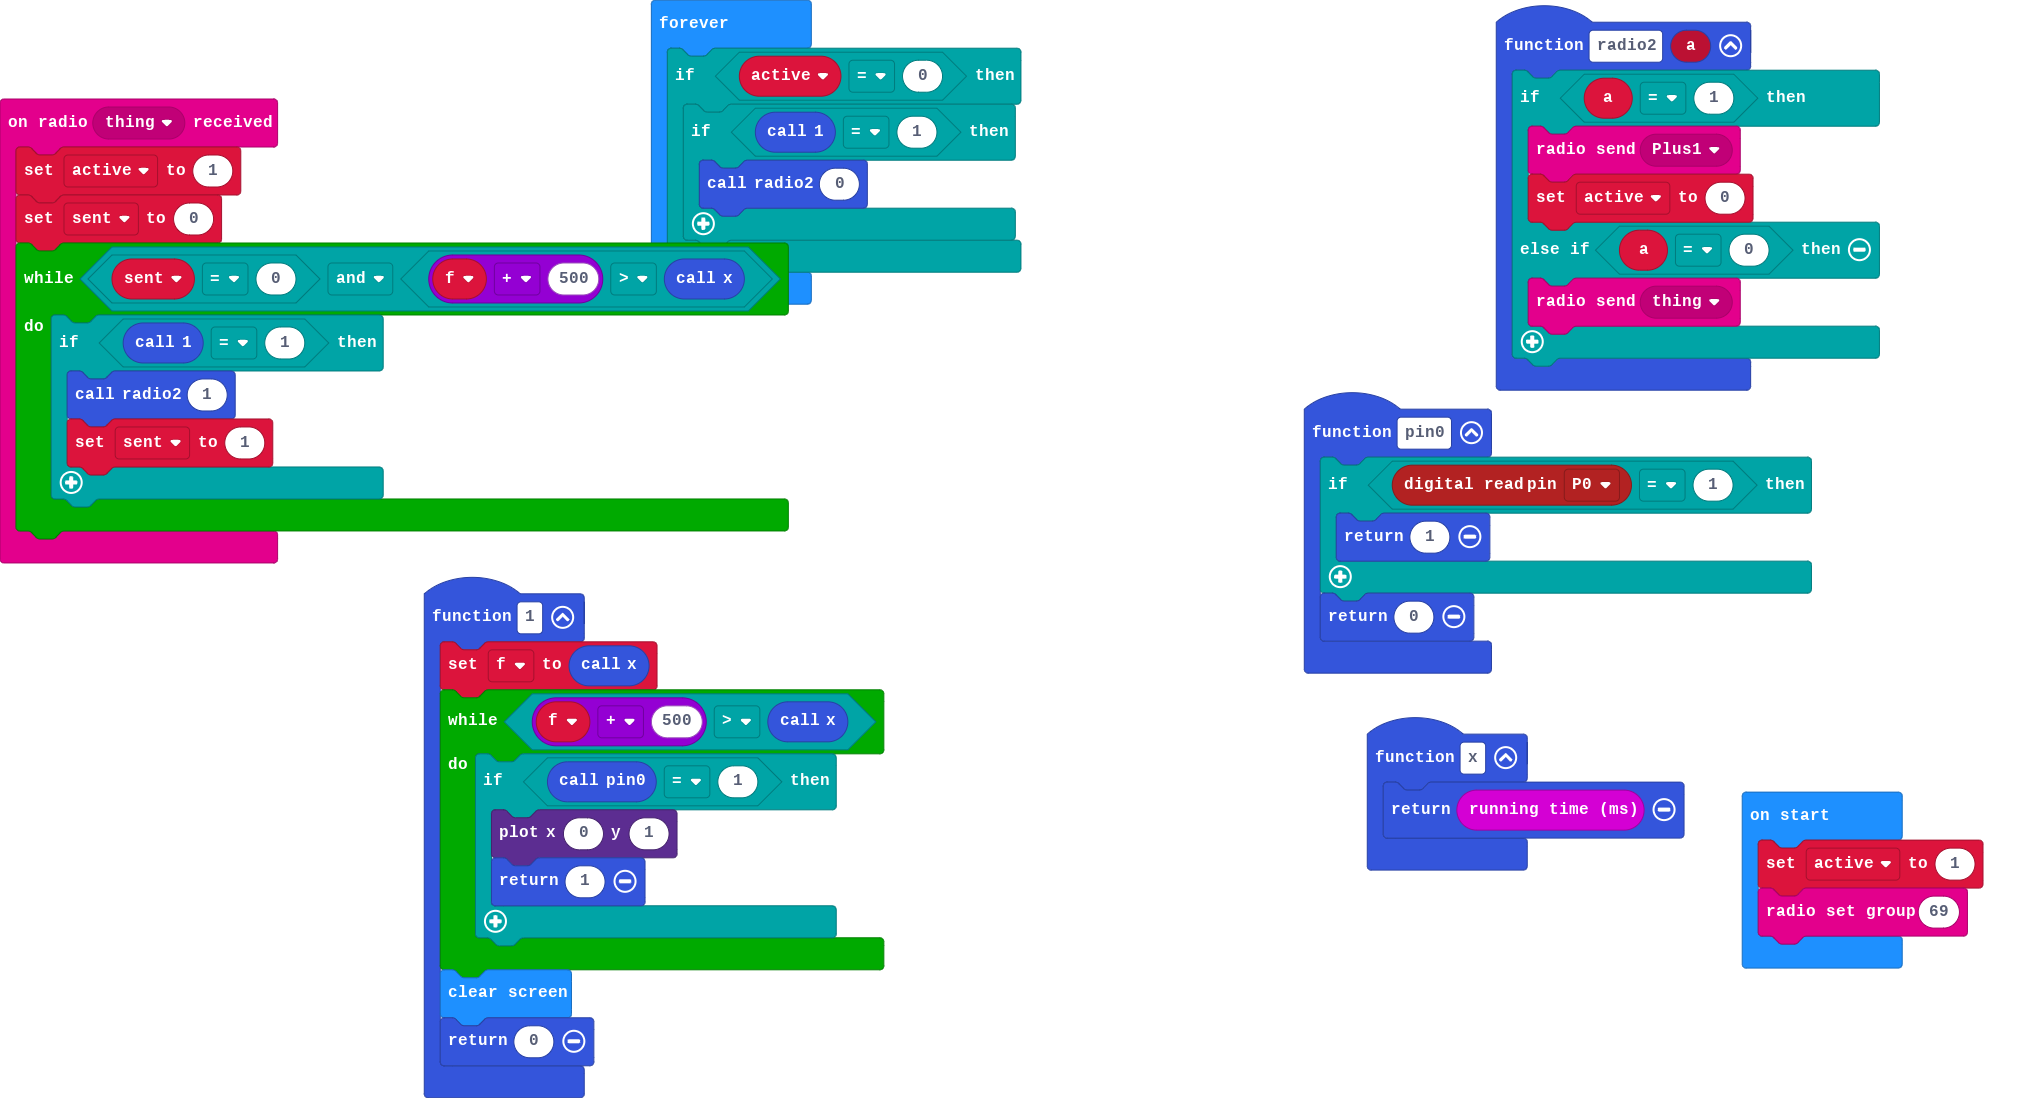
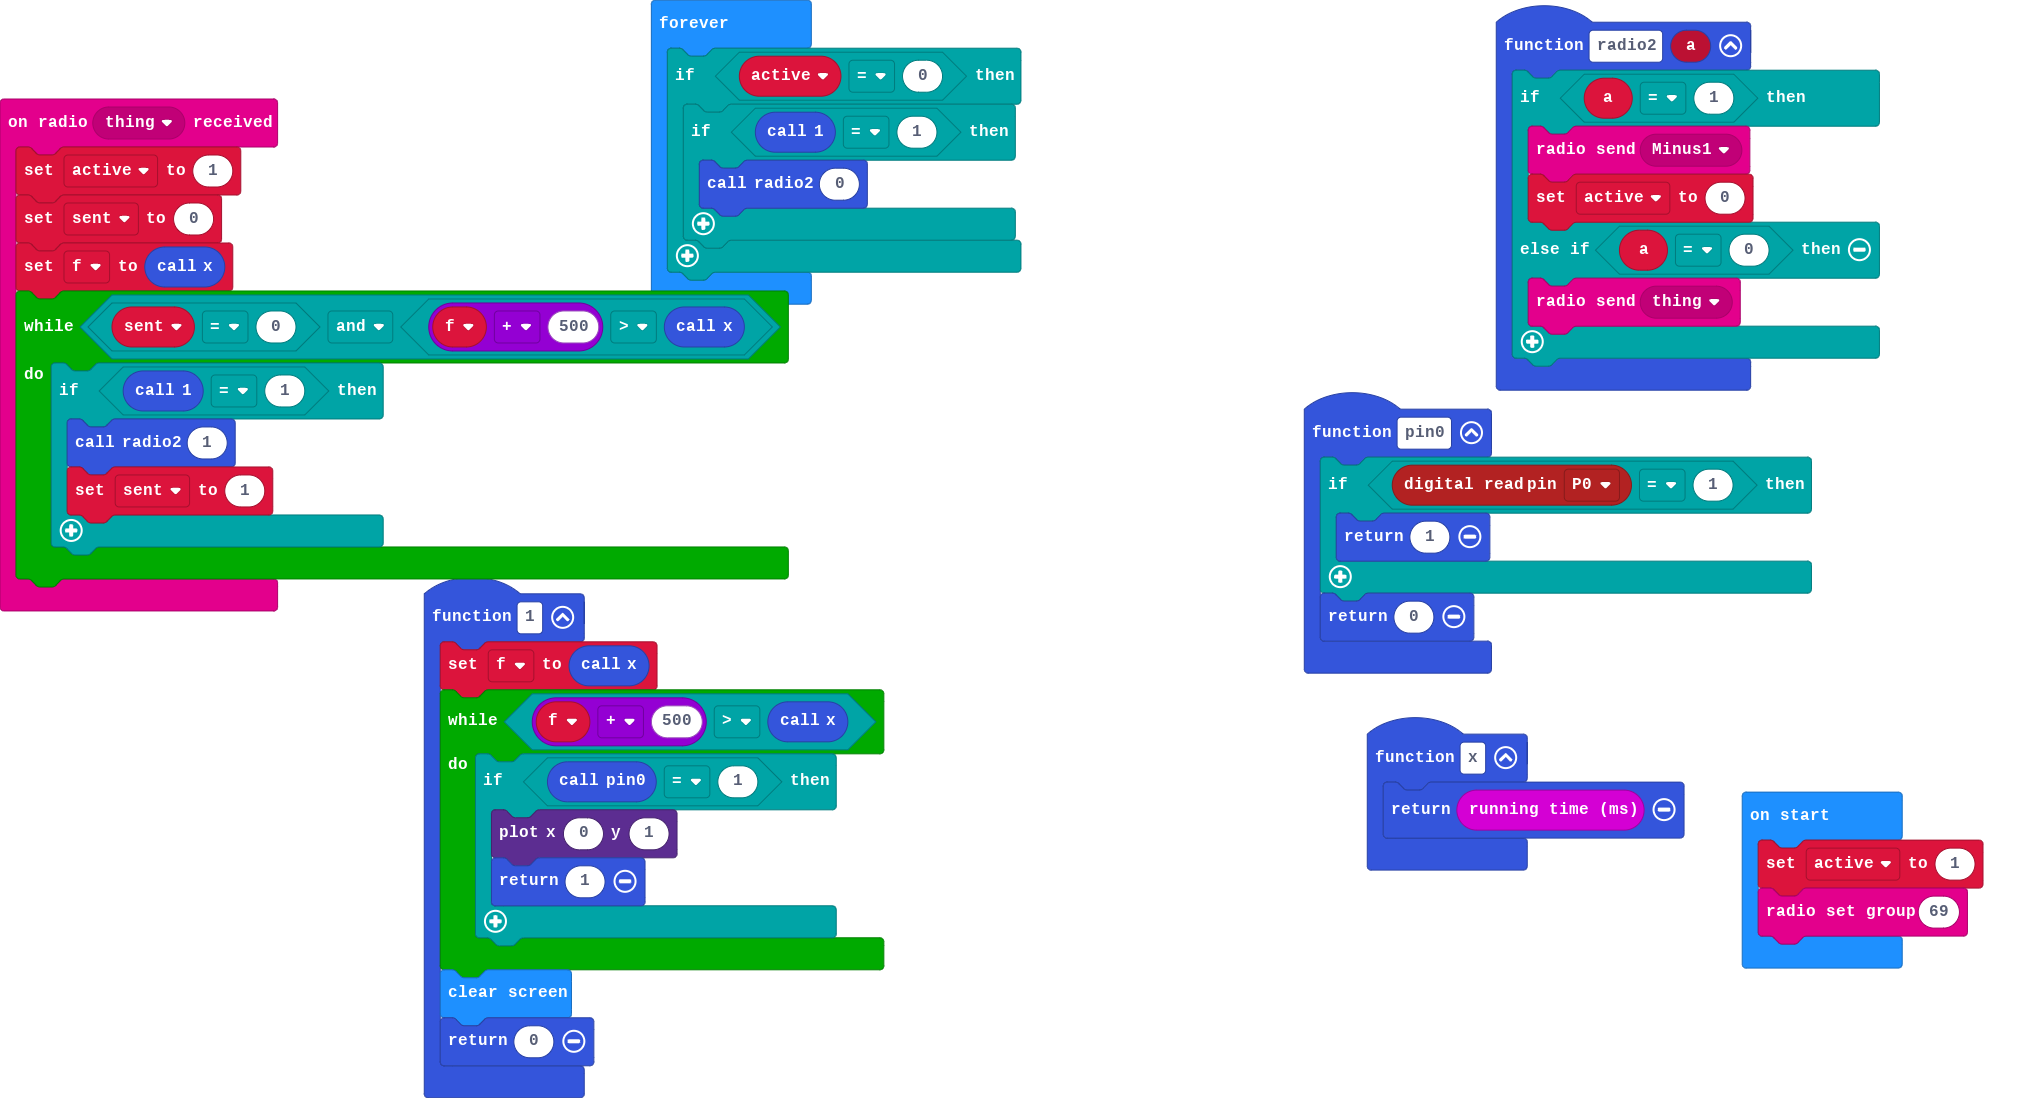
Update main.blocks, main.ts

Changed region(s): [[0.0, 0.2168, 0.4025, 0.5574], [0.8049, 0.1239, 0.8668, 0.1548]]

diff --git a/main.ts b/main.ts
@@ -6,7 +6,7 @@ enum RadioMessage {
 }
 function radio2 (a: number) {
     if (a == 1) {
-        radio.sendMessage(RadioMessage.Plus1)
+        radio.sendMessage(RadioMessage.Minus1)
         active = 0
     } else if (a == 0) {
         radio.sendMessage(RadioMessage.thing)
@@ -15,6 +15,7 @@ function radio2 (a: number) {
 radio.onReceivedMessage(RadioMessage.thing, function () {
     active = 1
     sent = 0
+    f = x()
     while (sent == 0 && f + 500 > x()) {
         if (_1() == 1) {
             radio2(1)
